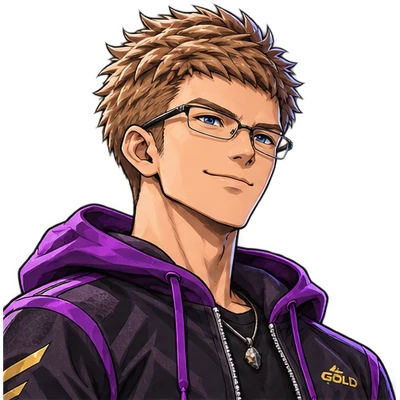
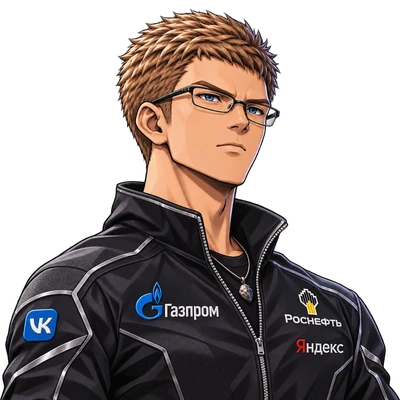
Новый портрет Happy
Claude-Session: https://claude.ai/code/session_01BdoBrB8cx4HivwSUnJtpct

diff --git a/sw.js b/sw.js
@@ -1,5 +1,5 @@
 // Установка как приложения и офлайн: сначала сеть (чтобы приходили обновления), без сети — сохранённая копия.
-const CACHE = 'spektr-v66';
+const CACHE = 'spektr-v67';
 const FILES = ['./', './index.html', './manifest.webmanifest', './icon-192.png', './icon-512.png', './icon-mask.png', './icon-180.png'];
 self.addEventListener('install', e => { e.waitUntil(caches.open(CACHE).then(c => c.addAll(FILES))); self.skipWaiting(); });
 self.addEventListener('activate', e => { e.waitUntil(caches.keys().then(ks => Promise.all(ks.filter(k => k !== CACHE).map(k => caches.delete(k))))); self.clients.claim(); });
